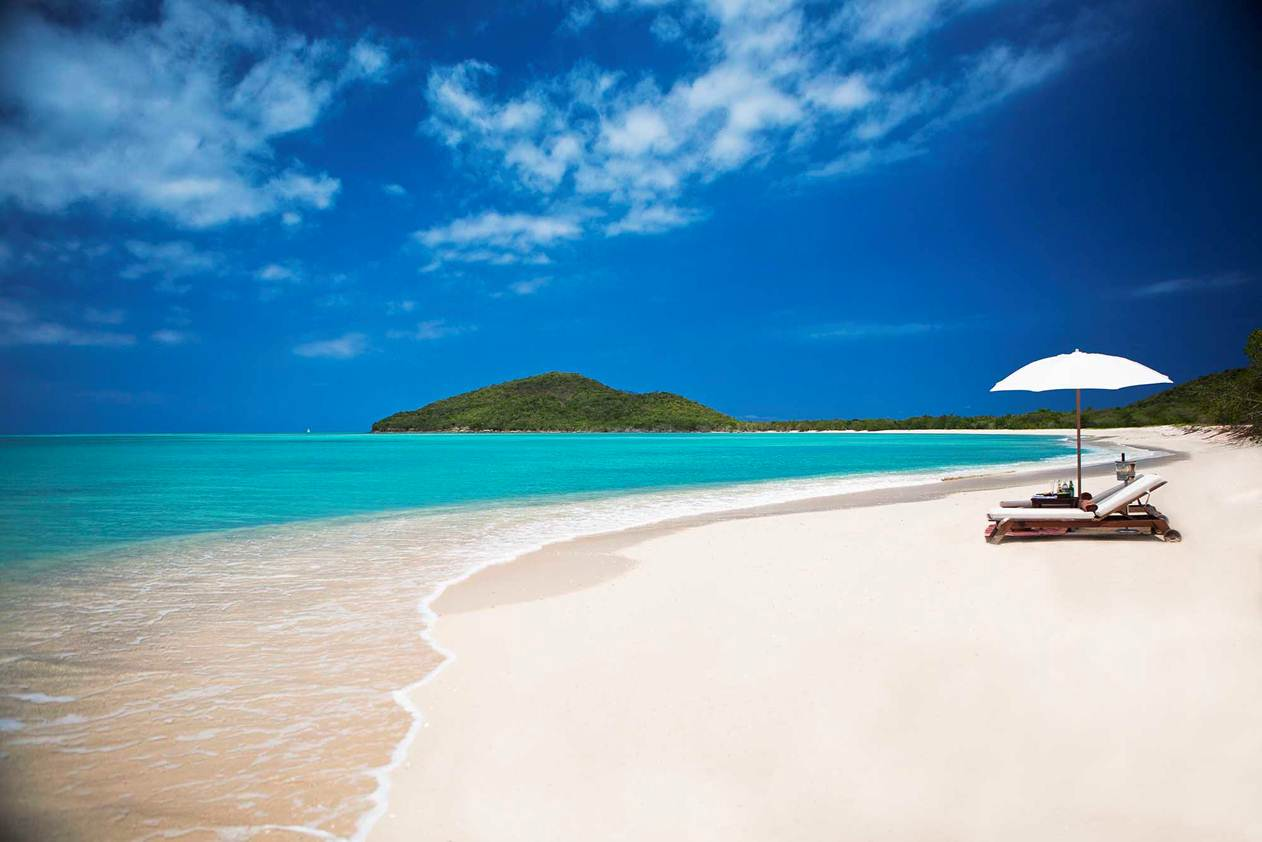
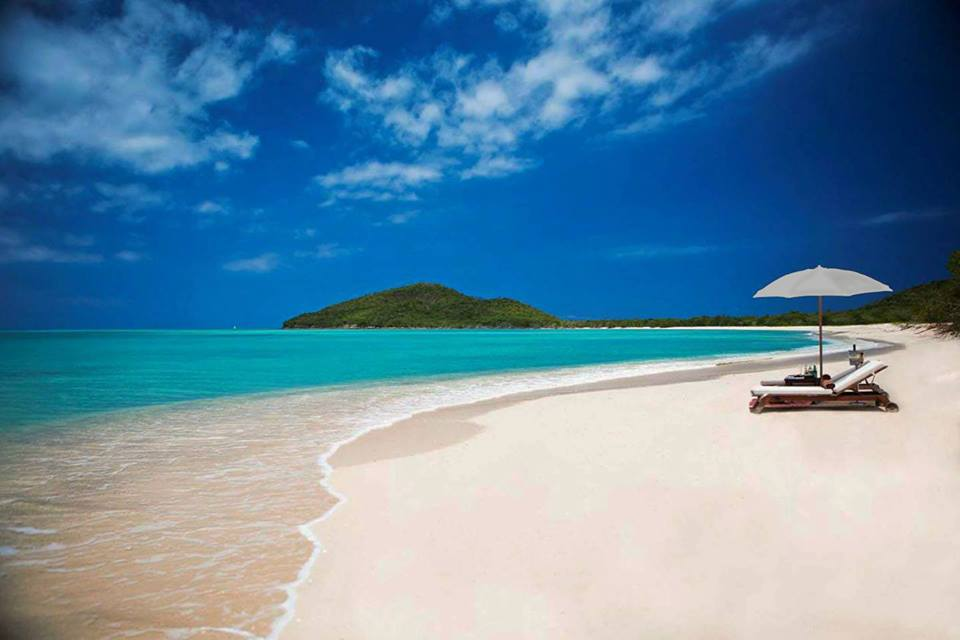
spiaggia timez

diff --git a/WorkinProgress/wip.css b/WorkinProgress/wip.css
@@ -6,7 +6,7 @@
 
 .jumbotron {
 
-	background-image: url(../Immagini/spiaggia2.jpg);
+	background-image: url(../Immagini/spiaggia.jpg);
 	background-repeat: no-repeat;
 	background-size: cover;
 	margin-top: 0.6%;
